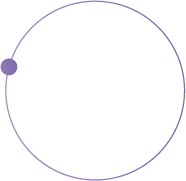
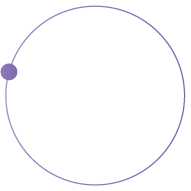
[Enhancement] 完善Loading

Changed region(s): [[0.0, 0.0, 1.0, 1.0], [0.0269, 0.3867, 0.0806, 0.442]]

diff --git a/pages/mine/MinePage.ts b/pages/mine/MinePage.ts
@@ -49,7 +49,7 @@ export class MinePage extends BasePage<Data> {
 
 	@waitForLogin
 	async onLogin() {
-		const player = this.playerPage.player;
+		const player = playerMgr().player;
 		// await this.roomPage.loadSelfRoom();
 		await this.setData({
 			info: {
@@ -64,40 +64,37 @@ export class MinePage extends BasePage<Data> {
 	// region 事件
 
 	@pageFunc
-  public onAvatarTap(){
-    this.setData({ isEdit: true }).then()
+	public onAvatarTap(){
+		this.setData({ isEdit: true }).then()
 	}
 
-  @pageFunc
-  public onClose(){
+	@pageFunc
+	public onClose(){
 		this.setData({ isEdit: false }).then()
-	 }
+	}
 
-	 @pageFunc
-	 onMaleTap() {
-		 this.setData({ "info.gender": 1 });
-	 }
+	@pageFunc
+	onMaleTap() {
+		this.setData({ "info.gender": 1 });
+	}
 
-	 @pageFunc
-	 onFemaleTap() {
-		 this.setData({ "info.gender": 2 });
-	 }
+	@pageFunc
+	onFemaleTap() {
+		this.setData({ "info.gender": 2 });
+	}
 
-	 @pageFunc
-	 @input("info.name")
-	 onNameInput() {}
+	@pageFunc
+	@input("info.name")
+	onNameInput() {}
 
-	 @pageFunc
-	 @input("info.slogan")
-	 onSloganInput() {}
+	@pageFunc
+	@input("info.slogan")
+	onSloganInput() {}
 
-	 @pageFunc
-	 public async onSubmit() {
-		const player = this.playerPage.player;
-		 await playerMgr().editInfo(this.data.info);
-		 this.setData({
-			 isEdit:false,
-		 }),
-		 this.playerPage.resetPlayer()
-	 }
+	@pageFunc
+	public async onSubmit() {
+		await playerMgr().editInfo(this.data.info);
+		await this.setData({ isEdit: false })
+		this.playerPage.resetPlayer()
+	}
 }

diff --git a/pages/common/partPages/RoomPage.ts b/pages/common/partPages/RoomPage.ts
@@ -51,7 +51,15 @@ export class RoomPage extends PartialPage<Data> {
 	}
 }
 
-export class RoomDrawingPage extends CanvasPage {
+class DrawingData extends BaseData {
+
+	@field
+	isLoading: boolean = false;
+}
+
+export class RoomDrawingPage extends CanvasPage<DrawingData> {
+
+	public data = new DrawingData();
 
 	// region 绘制数据
 
@@ -107,13 +115,19 @@ export class RoomDrawingPage extends CanvasPage {
 										position = [0.5, 0.5],
 										scale = 1) {
 		this.clear();
-		this.room = room;
+
+		this.room = room; this.scale = scale;
 		this.position = position;
-		this.scale = scale;
+
+		await this.setData({isLoading: true})
+
 		await this.waitForCanvasSetup();
 		await this.drawBackground();
 		await this.drawHouse();
+
 		this.render();
+
+		await this.setData({isLoading: false})
 	}
 
 	private async drawBackground() {

diff --git a/components/loading/loading.less b/components/loading/loading.less
@@ -1,0 +1,34 @@
+
+.loading {
+  position: fixed;
+  left: 0; top: 0;
+  width: 100%; height: 100%;
+
+  z-index: 1000;
+
+  image {
+    position: absolute;
+    left: 50%; top: 50%;
+    transform: translate(-50%, -50%);
+    transform-origin: center;
+  }
+
+  .circle {
+    width: 191rpx;
+    animation: 3s loading infinite ease-in-out;
+  }
+  .icon {
+    width: 150rpx;
+  }
+}
+
+@keyframes loading {
+  0% {
+    transform: translate(-50%, -50%) rotate(0deg);
+    //animation-timing-function: cubic-bezier(0.175, 0.885, 0.32, 1);
+  }
+  100% {
+    transform: translate(-50%, -50%) rotate(360deg);
+    //animation-timing-function: cubic-bezier(0.55, 0.055, 0.675, 0.19);
+  }
+}

diff --git a/pages/square/square.less b/pages/square/square.less
@@ -8,6 +8,8 @@ page{
   width: 100%; height: 100%;
   z-index: 10;
 
+  pointer-events: none;
+
   .top-mask {
     position: absolute;
     left: 0; top: 0rpx;
@@ -22,6 +24,10 @@ page{
   .container-top {
     position: absolute;
     top: 80rpx;
+  }
+
+  .absoluter {
+    pointer-events: all;
   }
 
   .search {

diff --git a/pages/mine/mine.less b/pages/mine/mine.less
@@ -154,7 +154,7 @@
         font-size: 28rpx;
         text-align: center;
         background-color: rgba(234,234,234,1);
-  
+
         .gender-text{
           line-height: 100%;
         }

diff --git a/components/real-tab-bar/real-tab-bar.less b/components/real-tab-bar/real-tab-bar.less
@@ -26,7 +26,7 @@
 
     image {
       width: 100%;
-      height: 56rpx;
+      height: 80rpx;
       display: inline;
 
       margin-bottom: 4rpx;
